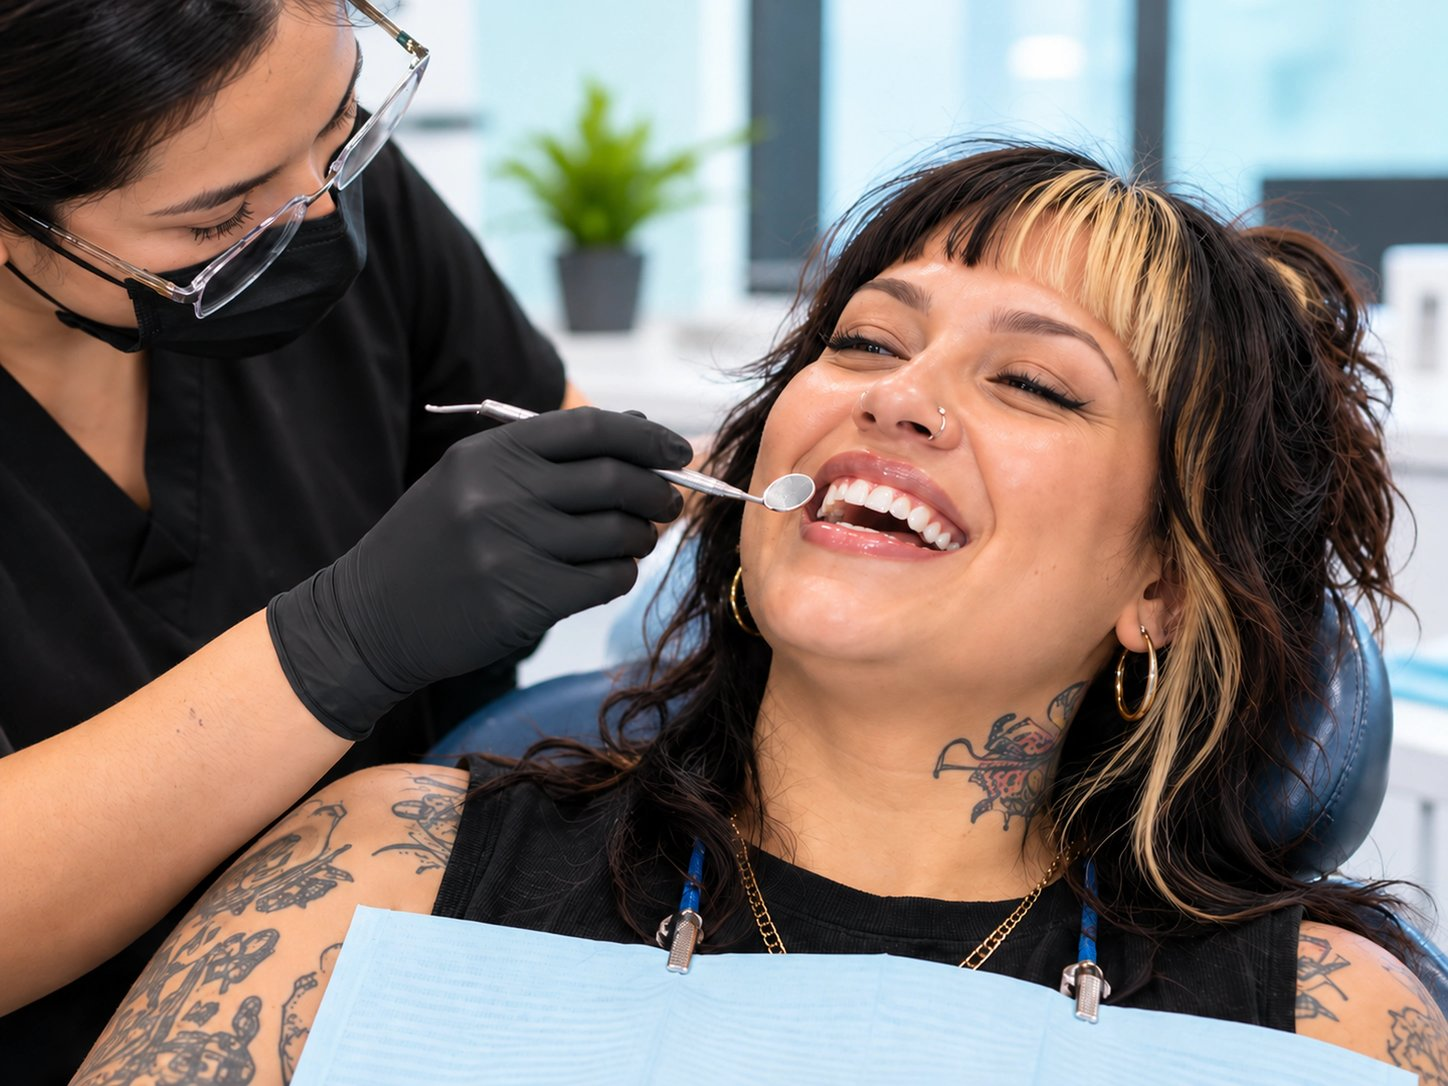
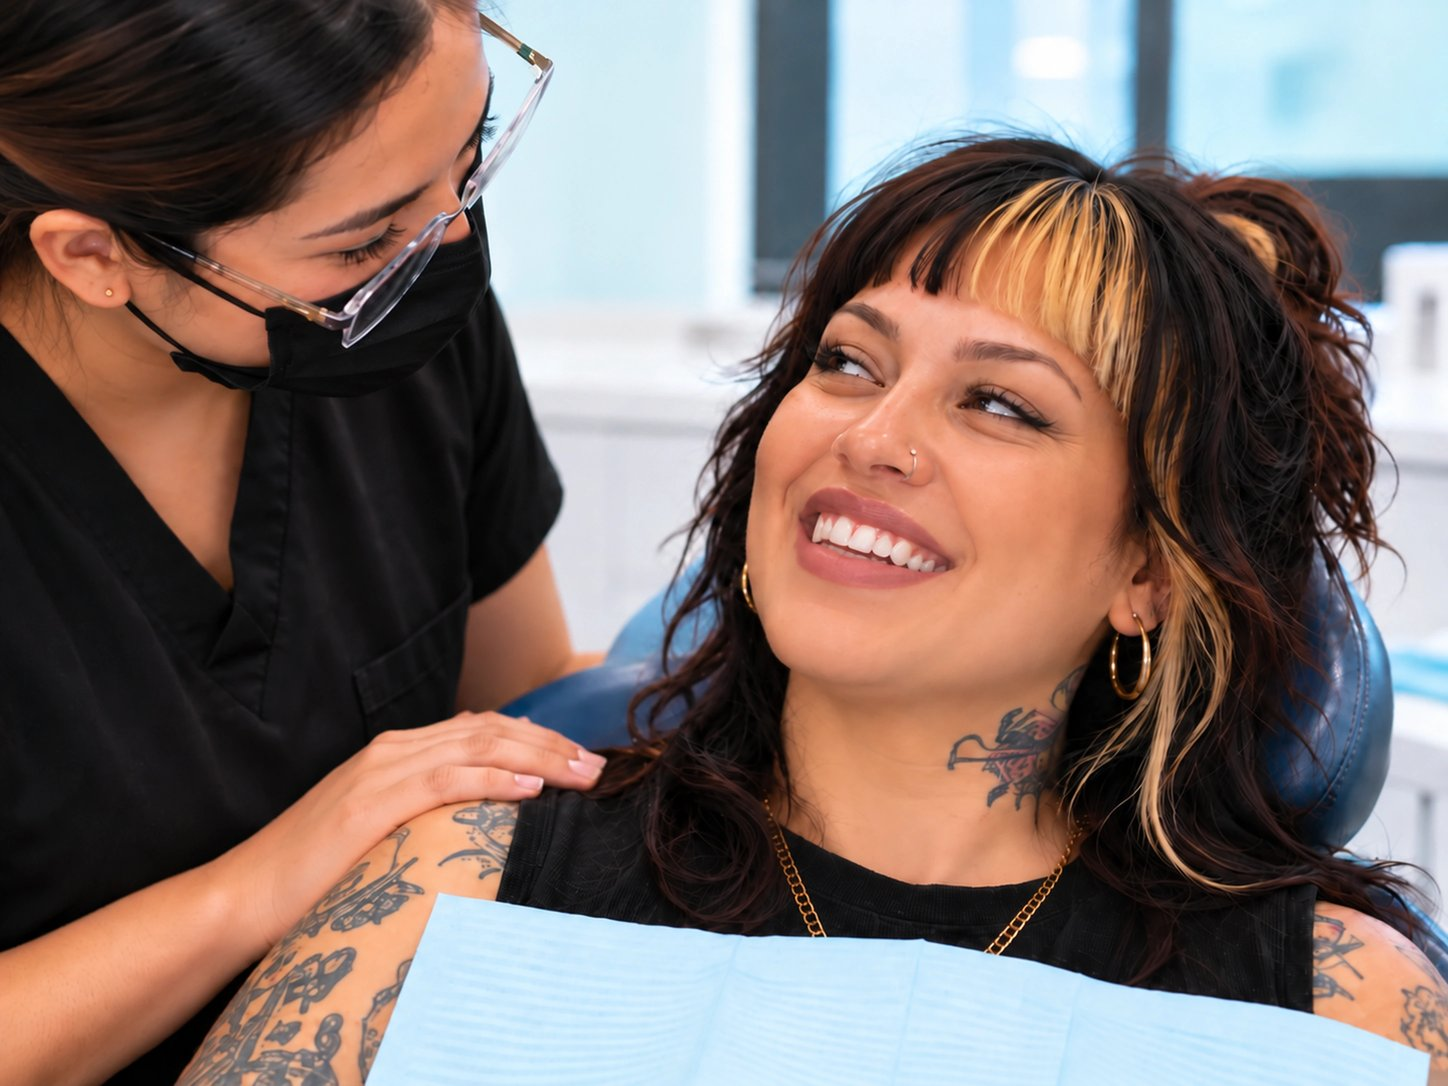
feat: new Implants, Root Canal and Fillings page photos; original Aligners card
- Dental Implants page: the same man, now in a blue T-shirt.
- Root Canal page: a smiling woman in a blue T-shirt.
- Fillings & Restorative Care page: the patient with the assistant.
- Clear Aligners & Braces card: back to the original photo of clear
  aligners and braces; the woman with the mirror stays on the page.

diff --git a/src/content/services.ts b/src/content/services.ts
@@ -55,7 +55,7 @@ const definitions: readonly ServiceDefinition[] = [
   { id: 'extractions', href: `${routes.services}/extractions`, image: 'extractionsPatient', imagePosition: '30% 50%', thumbnail: 'thumbExtractions' },
   { id: 'restorative', href: `${routes.services}/restorative`, image: 'restorativePatient', imagePosition: '72% 50%', thumbnail: 'thumbRestorative' },
   { id: 'crowns', href: `${routes.services}/crowns`, image: 'crownsPatient', thumbnail: 'thumbCrowns' },
-  { id: 'root-canal', href: `${routes.services}/root-canal`, image: 'teethModel', thumbnail: 'thumbRootCanal' },
+  { id: 'root-canal', href: `${routes.services}/root-canal`, image: 'rootCanalPatient', thumbnail: 'thumbRootCanal' },
   { id: 'implants', href: `${routes.services}/implants`, image: 'implantsPatient', thumbnail: 'thumbImplants' },
   { id: 'dentures', href: `${routes.services}/dentures`, image: 'denturesPatient', thumbnail: 'thumbDentures' },
   { id: 'clear-aligners-braces', href: `${routes.services}/clear-aligners-braces`, image: 'alignersPatient', thumbnail: 'thumbAligners' },

diff --git a/docs/image-credits.md b/docs/image-credits.md
@@ -41,17 +41,16 @@ Supplied on 20 October 2026. Their source and licence are not recorded yet: conf
 | `public/images/services/extractions-patient.jpg` | Tooth extractions page, beside the text |
 | `public/images/services/emergency-patient.jpg` | Emergency page, beside the text |
 | `public/images/services/thumbnails/emergency.jpg` | Emergency care card on the services grid (replaces the earlier card photo) |
-| `public/images/services/restorative-patient.jpg` | Fillings and restorative care page, beside the text |
+| `public/images/services/restorative-patient.jpg` | Fillings and restorative care page, beside the text (patient and assistant, 23 October 2026) |
 | `public/images/services/thumbnails/restorative.jpg` | Fillings and restorative care card on the services grid (tooth model with a filling, 22 October 2026) |
 | `public/images/services/thumbnails/cleanings-checkups.jpg` | Cleanings and check-ups card on the services grid (replaces the earlier card photo, 21 October 2026) |
 | `public/images/services/cosmetic-patient.jpg` | Cosmetic dentistry page, beside the text (woman with long hair, 21 October 2026) |
 | `public/images/services/cleanings-patient.jpg` | Cleanings and check-ups page, beside the text (22 October 2026) |
 | `public/images/services/crowns-patient.jpg` | Crowns page, beside the text (smiling woman, 22 October 2026) |
-| `public/images/services/root-canal-patient.jpg` | Not used since 22 October 2026: the Root Canal page went back to `stock/teeth-model.jpg` |
-| `public/images/services/implants-patient.jpg` | Dental implants page, beside the text (smiling man in a yellow T-shirt, 22 October 2026) |
+| `public/images/services/root-canal-patient.jpg` | Root canal page, beside the text (smiling woman in a blue T-shirt, 23 October 2026) |
+| `public/images/services/implants-patient.jpg` | Dental implants page, beside the text (smiling man in a blue T-shirt, 23 October 2026) |
 | `public/images/services/dentures-patient.jpg` | Dentures page, beside the text (22 October 2026) |
 | `public/images/services/aligners-patient.jpg` | Clear aligners and braces page, beside the text (woman with a hand mirror, 22 October 2026) |
-| `public/images/services/thumbnails/clear-aligners-braces.jpg` | Clear aligners and braces card on the services grid (woman with a hand mirror, matching the page, 22 October 2026) |
 | `public/images/services/thumbnails/cosmetic.jpg` | Cosmetic dentistry card on the services grid (smiling patient in the chair, 21 October 2026) |
 | `public/images/home/tooth-pain.jpg` | Homepage "Tooth pain" tab (21 October 2026) |
 | `public/images/home/missing-teeth.jpg` | Homepage "Missing teeth" tab (21 October 2026) |
@@ -67,7 +66,7 @@ Used under the [Pexels License](https://www.pexels.com/license/) (free for comme
 |---|---|---|
 | `tooth-model.jpg` | https://www.pexels.com/photo/close-up-photo-of-an-implant-tooth-6502340/ | Dental implants |
 | `clear-aligner.jpg` | https://www.pexels.com/photo/a-clear-retainer-on-a-person-s-hands-wearing-gloves-10896051/ | Clear aligners and braces |
-| `teeth-model.jpg` | https://www.pexels.com/photo/a-person-holding-a-teeth-model-and-a-dental-scaler-4269698/ | Root canal treatment page |
+| `teeth-model.jpg` | https://www.pexels.com/photo/a-person-holding-a-teeth-model-and-a-dental-scaler-4269698/ | Not used since 23 October 2026 |
 | `treatment-room-light.jpg` | https://www.pexels.com/photo/modern-dental-office-with-dental-chair-equipment-35438269/ | Not used since the practice photographs were supplied |
 | `treatment-room-white.jpg` | https://www.pexels.com/photo/back-view-of-a-dental-chair-in-a-clinic-4269276/ | Not used since the practice photographs were supplied |
 | `treatment-room-blue.jpg` | https://www.pexels.com/photo/modern-dental-office-interior-with-equipment-30902075/ | Not used since the practice photographs were supplied |
